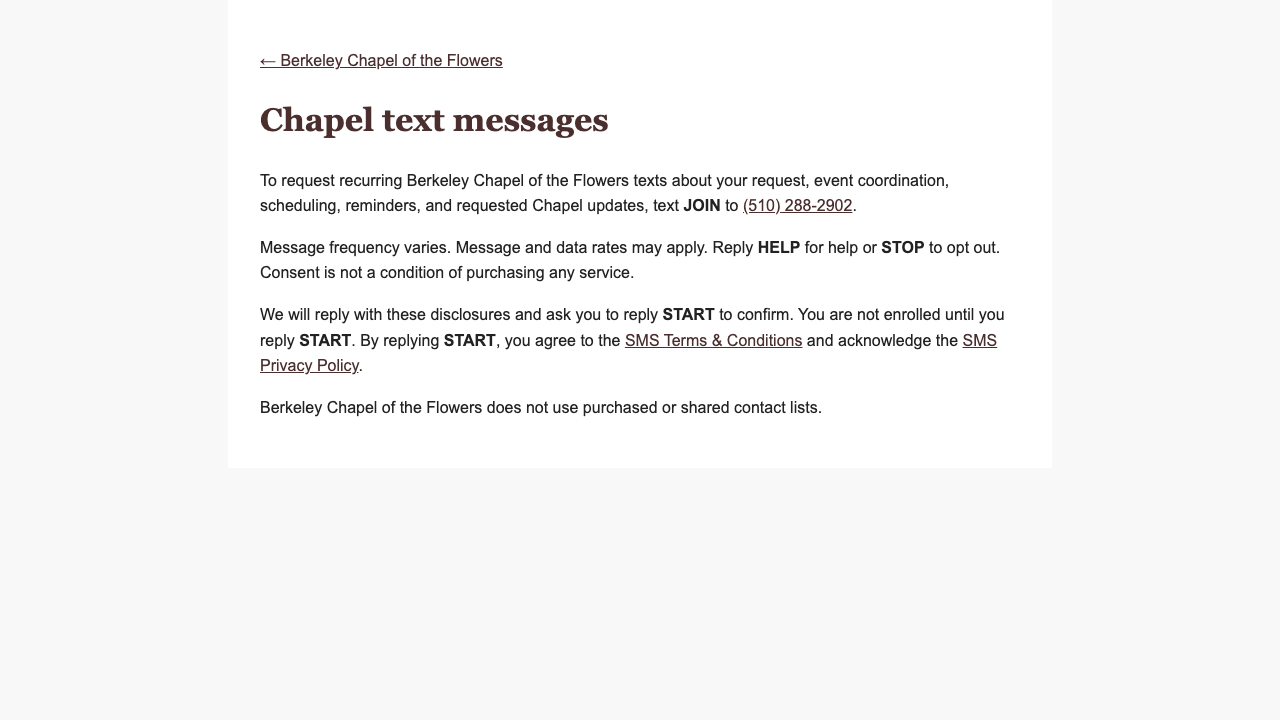
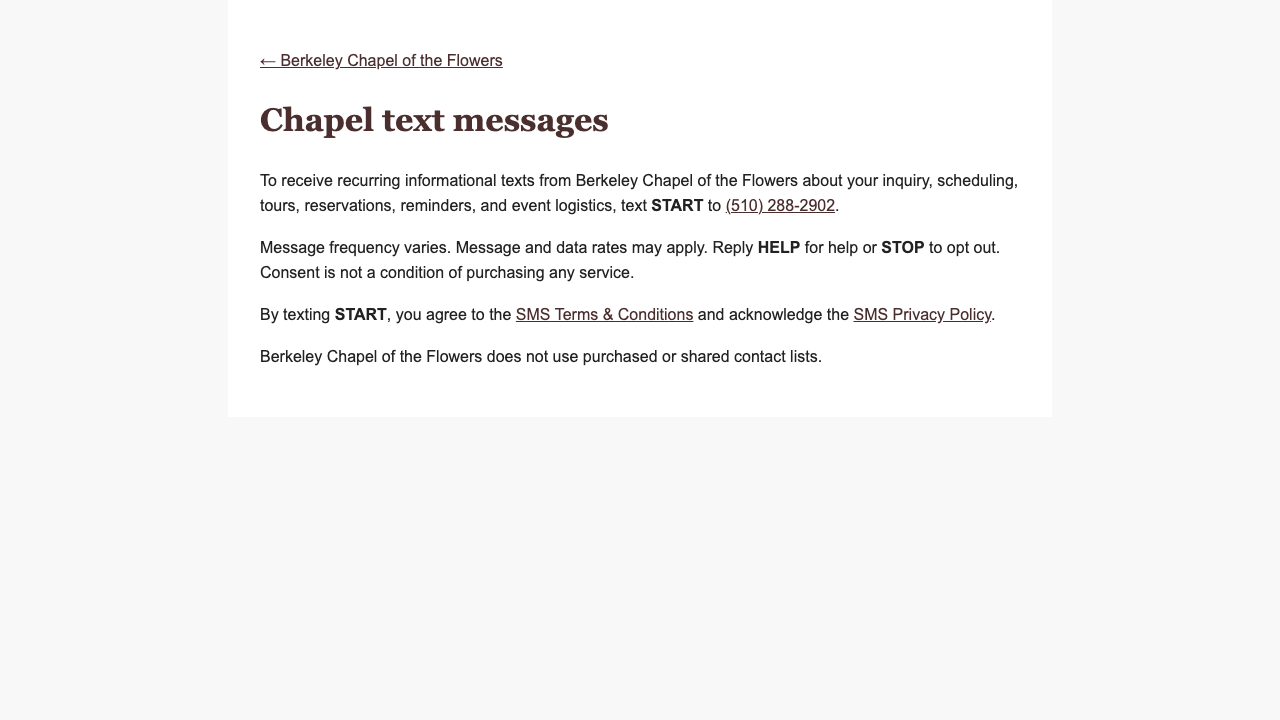
Simplify SMS consent flow

Changed region(s): [[0.1875, 0.4278, 0.7812, 0.5194], [0.1875, 0.2444, 0.8125, 0.3056], [0.1875, 0.55, 0.6562, 0.5806]]

diff --git a/terms.html b/terms.html
@@ -15,16 +15,13 @@
 <main>
     <p><a href="index.html">← Berkeley Chapel of the Flowers</a></p>
     <h1>SMS Terms &amp; Conditions</h1>
-    <p>Berkeley Chapel of the Flowers uses a low-volume text messaging program for direct Chapel and venue communications with Aundre Speciale in her capacity as proprietor. Messages may cover event inquiries, availability, scheduling, tours, reservations, customer care, follow-up questions, reminders, venue logistics, and coordination with organizers, vendors, community partners, and authorized team members. We may also send occasional Chapel updates requested by the recipient.</p>
+    <p>The Berkeley Chapel of the Flowers SMS Program sends recurring informational messages about Chapel inquiries, availability, scheduling, tours, reservations, reminders, customer care, and event logistics.</p>
 
     <h2>Opting in</h2>
-    <p>Recipients begin by reviewing these Terms &amp; Conditions and texting <strong>JOIN</strong> to <a href="sms:+15102882902">(510) 288-2902</a>. We reply with the required disclosures and ask them to reply <strong>START</strong>. They are not enrolled until they reply <strong>START</strong>. People who text the Chapel first may receive one-to-one replies about that request, but they must complete this confirmation before receiving later proactive updates. Consent to receive texts is not a condition of purchasing any service, and we do not use purchased or shared contact lists.</p>
-
-    <h2>Confirmation request</h2>
-    <p>After texting <strong>JOIN</strong>, recipients receive: “Berkeley Chapel of the Flowers: Reply START to confirm recurring texts about Chapel and venue coordination. Message frequency varies. Msg &amp; data rates may apply. Reply HELP for help or STOP to opt out. Terms: https://chapeloftheflowers.love/terms.html Privacy: https://chapeloftheflowers.love/privacy.html”</p>
+    <p>Recipients opt in by reviewing these Terms &amp; Conditions and texting <strong>START</strong> to <a href="sms:+15102882902">(510) 288-2902</a>. People who text the Chapel first may receive one-to-one replies about that request, but must text <strong>START</strong> before receiving later proactive informational messages. Consent to receive texts is not a condition of purchasing any service, and we do not use purchased or shared contact lists.</p>
 
     <h2>Confirmation message</h2>
-    <p>After opting in, recipients receive: “Berkeley Chapel of the Flowers: You’re subscribed for requested Chapel and venue messages. Message frequency varies. Msg &amp; data rates may apply. Reply HELP for help or STOP to opt out. Terms: https://chapeloftheflowers.love/terms.html Privacy: https://chapeloftheflowers.love/privacy.html”</p>
+    <p>After texting <strong>START</strong>, recipients receive: “Berkeley Chapel of the Flowers: You’re subscribed for informational Chapel and venue messages. Message frequency varies. Msg &amp; data rates may apply. Reply HELP for help or STOP to opt out. Terms: https://chapeloftheflowers.love/terms.html Privacy: https://chapeloftheflowers.love/privacy.html”</p>
 
     <h2>Frequency and charges</h2>
     <p>Message frequency varies with the recipient’s requests and Chapel activity. Message and data rates may apply. Carriers are not liable for delayed or undelivered messages.</p>

diff --git a/privacy.html b/privacy.html
@@ -15,13 +15,13 @@
 <main>
     <p><a href="index.html">← Berkeley Chapel of the Flowers</a></p>
     <h1>SMS Privacy Policy</h1>
-    <p>This policy covers the Berkeley Chapel of the Flowers text messaging program for direct Chapel and venue communications by Aundre Speciale in her capacity as proprietor.</p>
+    <p>This policy covers the Berkeley Chapel of the Flowers SMS Program for direct Chapel and venue communications.</p>
 
     <h2>Information we collect and use</h2>
     <p>We collect participating recipients’ mobile numbers, consent records, message content, delivery information, and related request details. We use this information only to operate, secure, and improve Chapel communications and to respond to recipients.</p>
 
     <h2>Sharing</h2>
-    <p>Mobile information, including phone numbers and SMS consent records, is not sold or shared with third parties or affiliates for marketing or promotional purposes. We may disclose information to service providers that help deliver and operate the program, when required by law, or to protect the Chapel, its visitors, and its systems.</p>
+    <p>No mobile information will be shared with third parties or affiliates for marketing or promotional purposes. Text messaging originator opt-in data and consent will not be shared with any third parties, excluding aggregators and providers of the text message services solely to deliver the program.</p>
 
     <h2>Retention and choices</h2>
     <p>We retain information only as long as reasonably needed for event coordination, recordkeeping, security, and legal obligations. Reply <strong>STOP</strong> to stop messages or <strong>HELP</strong> for assistance.</p>

diff --git a/sms.html b/sms.html
@@ -15,9 +15,9 @@
 <main>
     <p><a href="index.html">← Berkeley Chapel of the Flowers</a></p>
     <h1>Chapel text messages</h1>
-    <p>To request recurring Berkeley Chapel of the Flowers texts about your request, event coordination, scheduling, reminders, and requested Chapel updates, text <strong>JOIN</strong> to <a href="sms:+15102882902?body=JOIN">(510) 288-2902</a>.</p>
+    <p>To receive recurring informational texts from Berkeley Chapel of the Flowers about your inquiry, scheduling, tours, reservations, reminders, and event logistics, text <strong>START</strong> to <a href="sms:+15102882902?body=START">(510) 288-2902</a>.</p>
     <p>Message frequency varies. Message and data rates may apply. Reply <strong>HELP</strong> for help or <strong>STOP</strong> to opt out. Consent is not a condition of purchasing any service.</p>
-    <p>We will reply with these disclosures and ask you to reply <strong>START</strong> to confirm. You are not enrolled until you reply <strong>START</strong>. By replying <strong>START</strong>, you agree to the <a href="terms.html">SMS Terms &amp; Conditions</a> and acknowledge the <a href="privacy.html">SMS Privacy Policy</a>.</p>
+    <p>By texting <strong>START</strong>, you agree to the <a href="terms.html">SMS Terms &amp; Conditions</a> and acknowledge the <a href="privacy.html">SMS Privacy Policy</a>.</p>
     <p>Berkeley Chapel of the Flowers does not use purchased or shared contact lists.</p>
 </main>
 </body>
